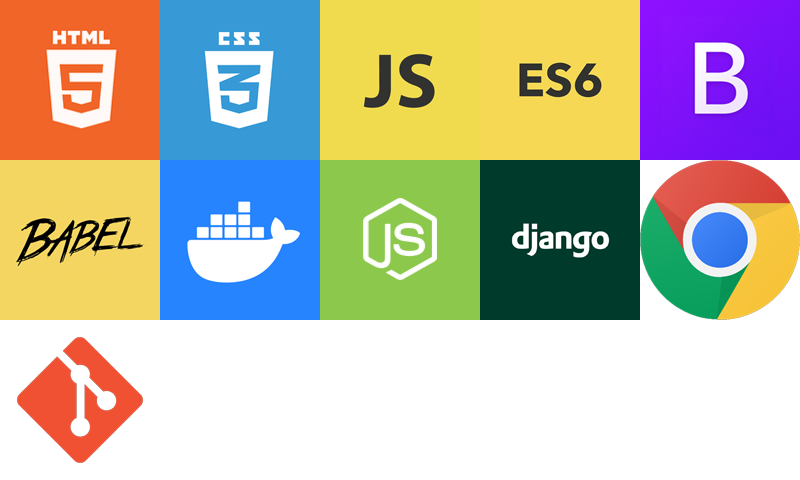
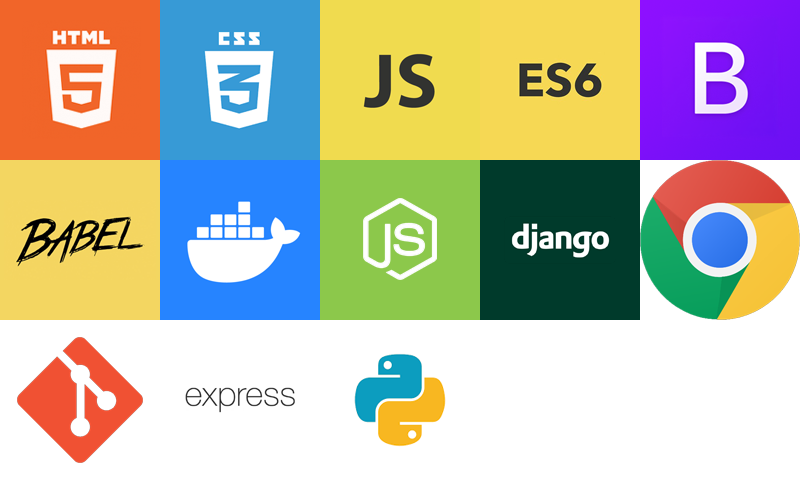
update cursor event, skills, job descriptions

Changed region(s): [[0.4375, 0.7188, 0.5625, 0.9375], [0.2188, 0.7812, 0.375, 0.8438]]

diff --git a/index.html b/index.html
@@ -97,30 +97,27 @@
           <div class="timeline-event">
             <label class="timeline-event-icon"></label>
             <div class="timeline-event-copy">
-              <h3>Samsung Electonics Co,. Ltd.</h3>
-              <h4>2019.07 ~ present</h4>
-              <p>
+              <p class="company">Samsung Electonics Co,. Ltd.</p>
+              <p class="year">2019 &ndash;</p>
+              <p class="desc">
                 <strong>Extended Reality, Graphic R&amp;D, Mobile Division</strong>
                 <br>
-                <i>Software Engineer, 2020.04 ~</i>
+                <i>Software Engineer, 2020.04 &ndash;</i>
               </p>
               <p>
                 <strong>Algorithm Train T/F, Samsung Advanced Technology Training Institute</strong>
                 <br>
-                <i>Competitive Programmer, 2019.07 ~ 2020.03</i>
+                <i>Competitive Programmer, 2019.07 &ndash; 2020.03</i>
               </p>
             </div>
           </div>
           <div class="timeline-event">
             <label class="timeline-event-icon"></label>
             <div class="timeline-event-copy">
-              <h3>Chonbuk National University</h3>
-              <h4>2012.02 ~ 2019.07</h4>
-              <p><i>Bachelor of Computer Science in Engineering</i></p>
-              <p>
-                <strong>Cloud &amp; Operation System Lab.</strong>
-                <br>
-                <i>Alumni</i>
+              <p class="company">Chonbuk National University</p>
+              <p class="year">2012 &ndash; 2019</p>
+              <p class="desc">
+                <i>Bachelor's degree, Computer Science in Engineering</i>
               </p>
             </div>
           </div>
@@ -238,6 +235,14 @@
           <div class="item">
               <div class="img nodejs"></div>
               <div class="title"><p>Node.js</p></div>
+          </div>
+          <div class="item">
+              <div class="img express"></div>
+              <div class="title"><p>express.js</p></div>
+          </div>
+          <div class="item">
+              <div class="img python"></div>
+              <div class="title"><p>python</p></div>
           </div>
           <div class="item">
               <div class="img django"></div>

diff --git a/assets/css/main.css b/assets/css/main.css
@@ -38,9 +38,15 @@ h1.heading {
 }
 
 a {
+    cursor: none;
     color: inherit;
-    text-decoration: none;
+    pointer-events: all;
 }
+
+a:hover {
+    color: white;
+}
+
 a.disabled, a:hover.disabled {
     color: #333;
 }
@@ -276,11 +282,12 @@ a.disabled, a:hover.disabled {
         width: 100%;
     }
 
-    .timeline-event-copy h3 {
+    .timeline-event-copy .company {
         font-size: 1.5em;
+        margin-bottom: 0;
     }
-    .timeline-event-copy h4 {
-        font-size: 1.2em;
+    .timeline-event-copy .year {
+        font-size: 0.75em;
         font-weight: normal;
         margin-bottom: 1.2em;
     }
@@ -288,7 +295,7 @@ a.disabled, a:hover.disabled {
         font-weight: 700;
     }
     .timeline-event-copy p:not(.timeline-event-thumbnail) {
-        padding-bottom: 0.5em;
+        padding-bottom: 0;
     }
 
     .timeline-event-icon {
@@ -356,15 +363,14 @@ a.disabled, a:hover.disabled {
 
 .cards {
   display: block;
-  margin-bottom: 80px;
-  margin-left: auto;
-  margin-right: auto;
+  margin: 1rem auto;
   text-align: center;
 }
 
   .cards .item {
     display: inline-block;
-    margin-right: 40px;
+    width: 100px;
+    height: 150px;
   }
 
   .cards .item:last-child {
@@ -380,7 +386,7 @@ a.disabled, a:hover.disabled {
       background-size: 400px;
       background-position: center center;
       background-color: #222;
-      transition: all 1000ms ease;
+      transition: transform 1000ms ease;
     }
 
     .cards .item:hover > .img {
@@ -398,6 +404,8 @@ a.disabled, a:hover.disabled {
     .cards .item > .img.django { background-position: -240px -80px; }
     .cards .item > .img.chrome { background-position: -320px -80px; }
     .cards .item > .img.git { background-position: 0px -160px; background-color: transparent; }
+    .cards .item > .img.express { background-position: -80px -160px; }
+    .cards .item > .img.python { background-position: -160px -160px; }
 
     .cards .item > .title {
       position: relative;
@@ -613,11 +621,6 @@ html {
   cursor: none;
   overflow-x: hidden;
   scroll-behavior: smooth;
-}
-
-a[href] {
-  cursor: none;
-  pointer-events: all;
 }
 
 #cursor {

diff --git a/assets/js/main.js b/assets/js/main.js
@@ -176,8 +176,13 @@
     document.addEventListener('mousemove', onMouseMove);
     document.addEventListener('mousedown', enlargeCursor);
     document.addEventListener('mouseup', shrinkCursor);
+    document.addEventListener('touchstart', hideCursor, false);
+    document.addEventListener('touchend', hideCursor, false);
+    document.addEventListener('touchmove', hideCursor, false);
+    document.addEventListener('touchcancel', hideCursor, false);
 
     function onMouseMove(e) {
+      cursor.style.display = 'block';
       cursor.style.top = e.pageY + 'px';
       cursor.style.left = e.pageX + 'px';
     }
@@ -188,6 +193,10 @@
 
     function shrinkCursor(e) {
       cursor.style.width = cursor.style.height = defaultSize + 'px';
+    }
+
+    function hideCursor(e) {
+      cursor.style.display = 'none';
     }
 
     $("a").each(function(i, e) {
@@ -215,7 +224,7 @@
     // scrollspy activation
     $(window).on('scroll', function(){
       let selected = false;
-      $(".sidebar.navigator").find("a[href]").each((i, e) => {
+      $(".sidebar.navigator").find("a").each(function(i, e) {
         let element = document.getElementById(e.href.split('#')[1]);
         let rect = element.getBoundingClientRect();
         if (!selected && 0 <= rect.y && rect.y < window.innerHeight) {
